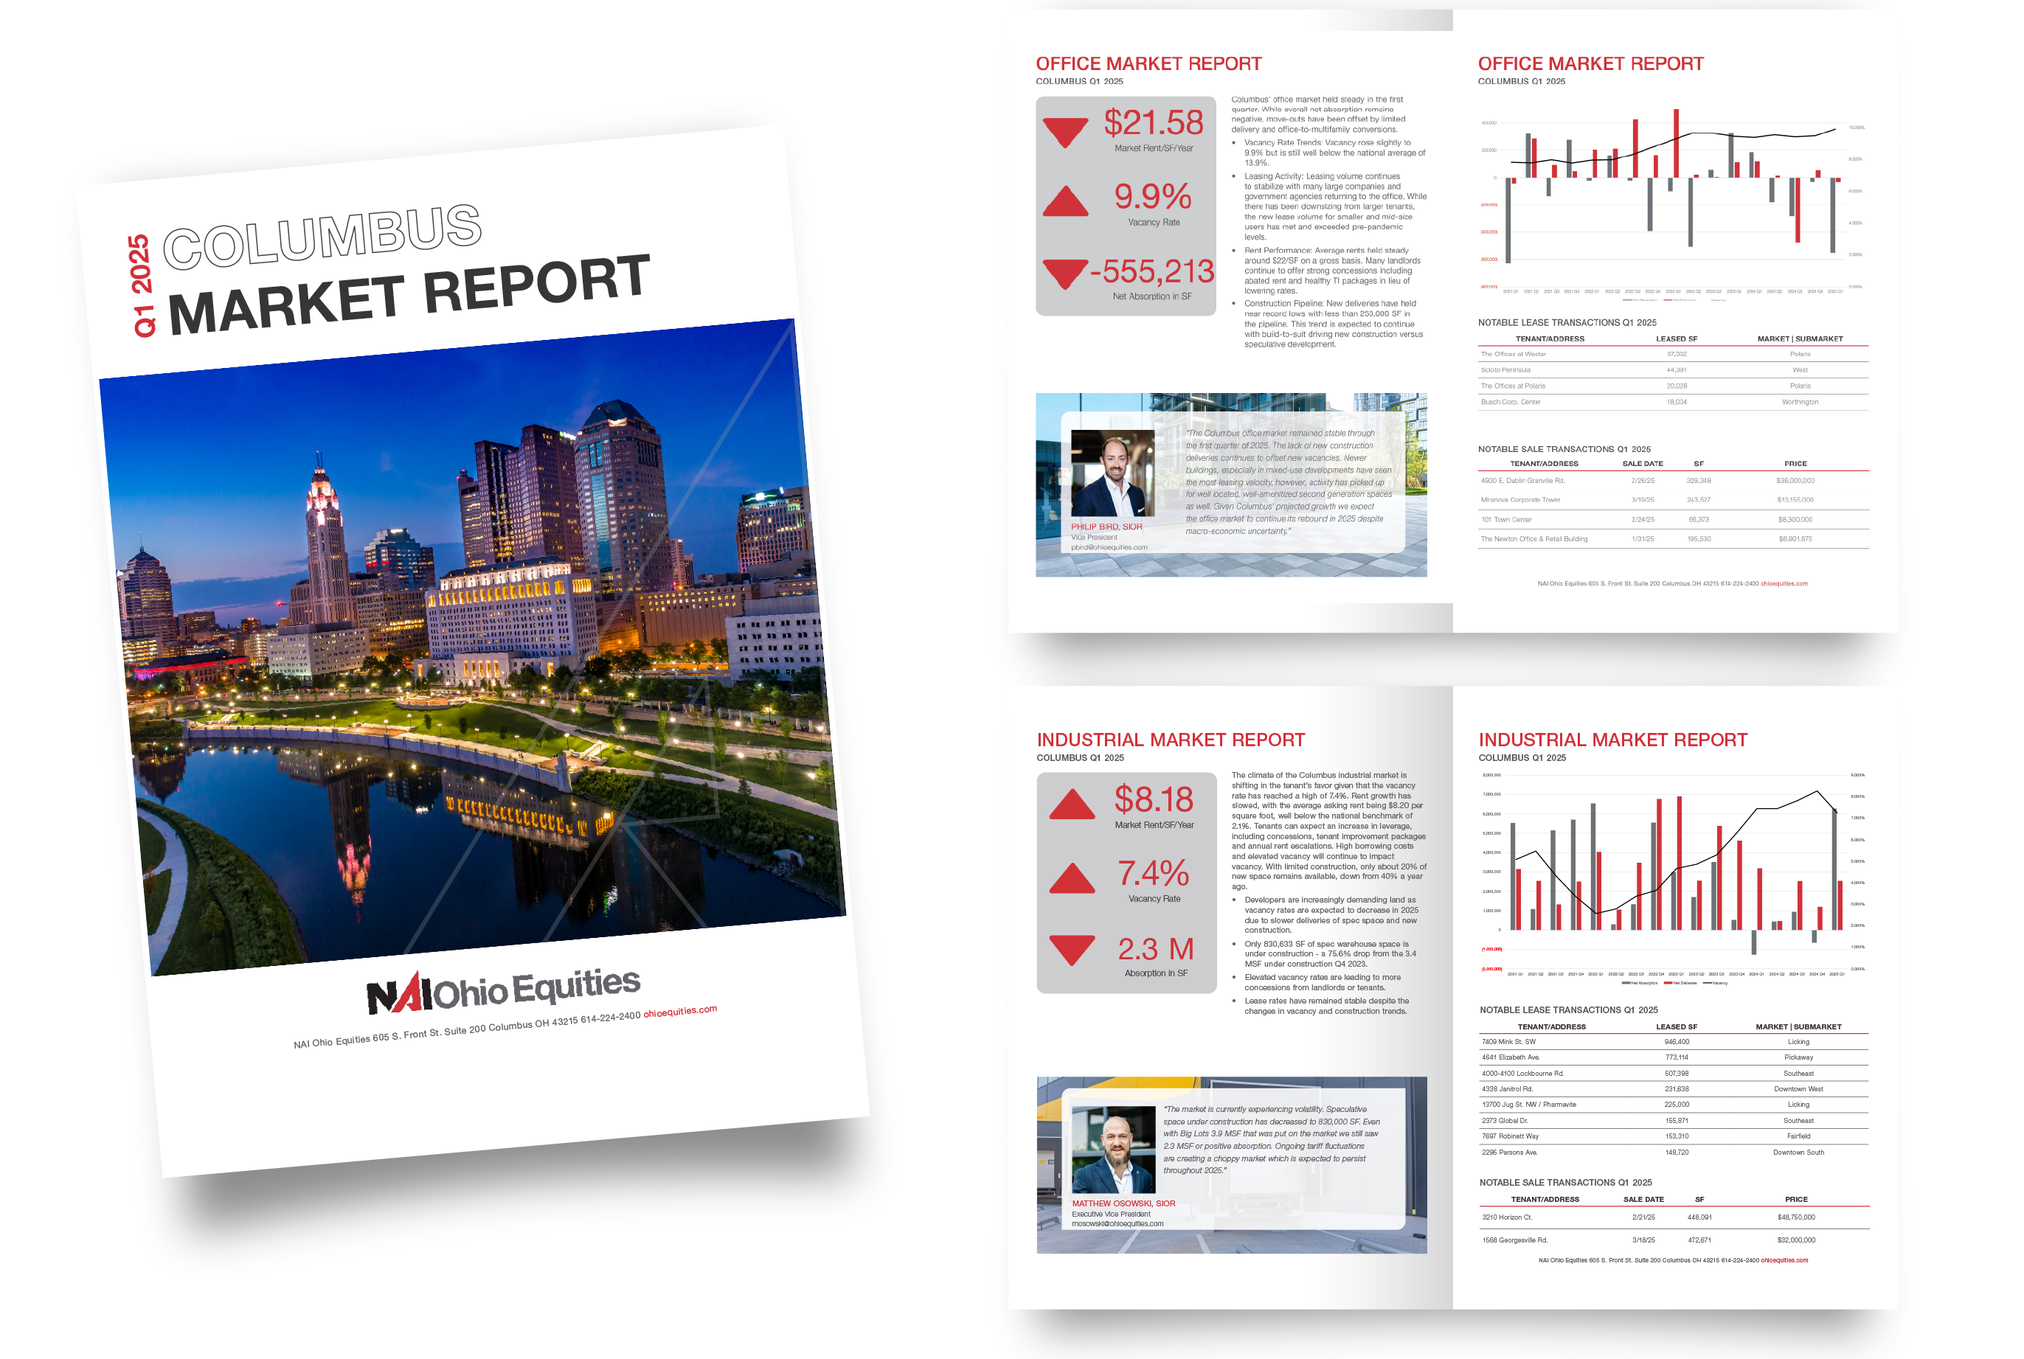
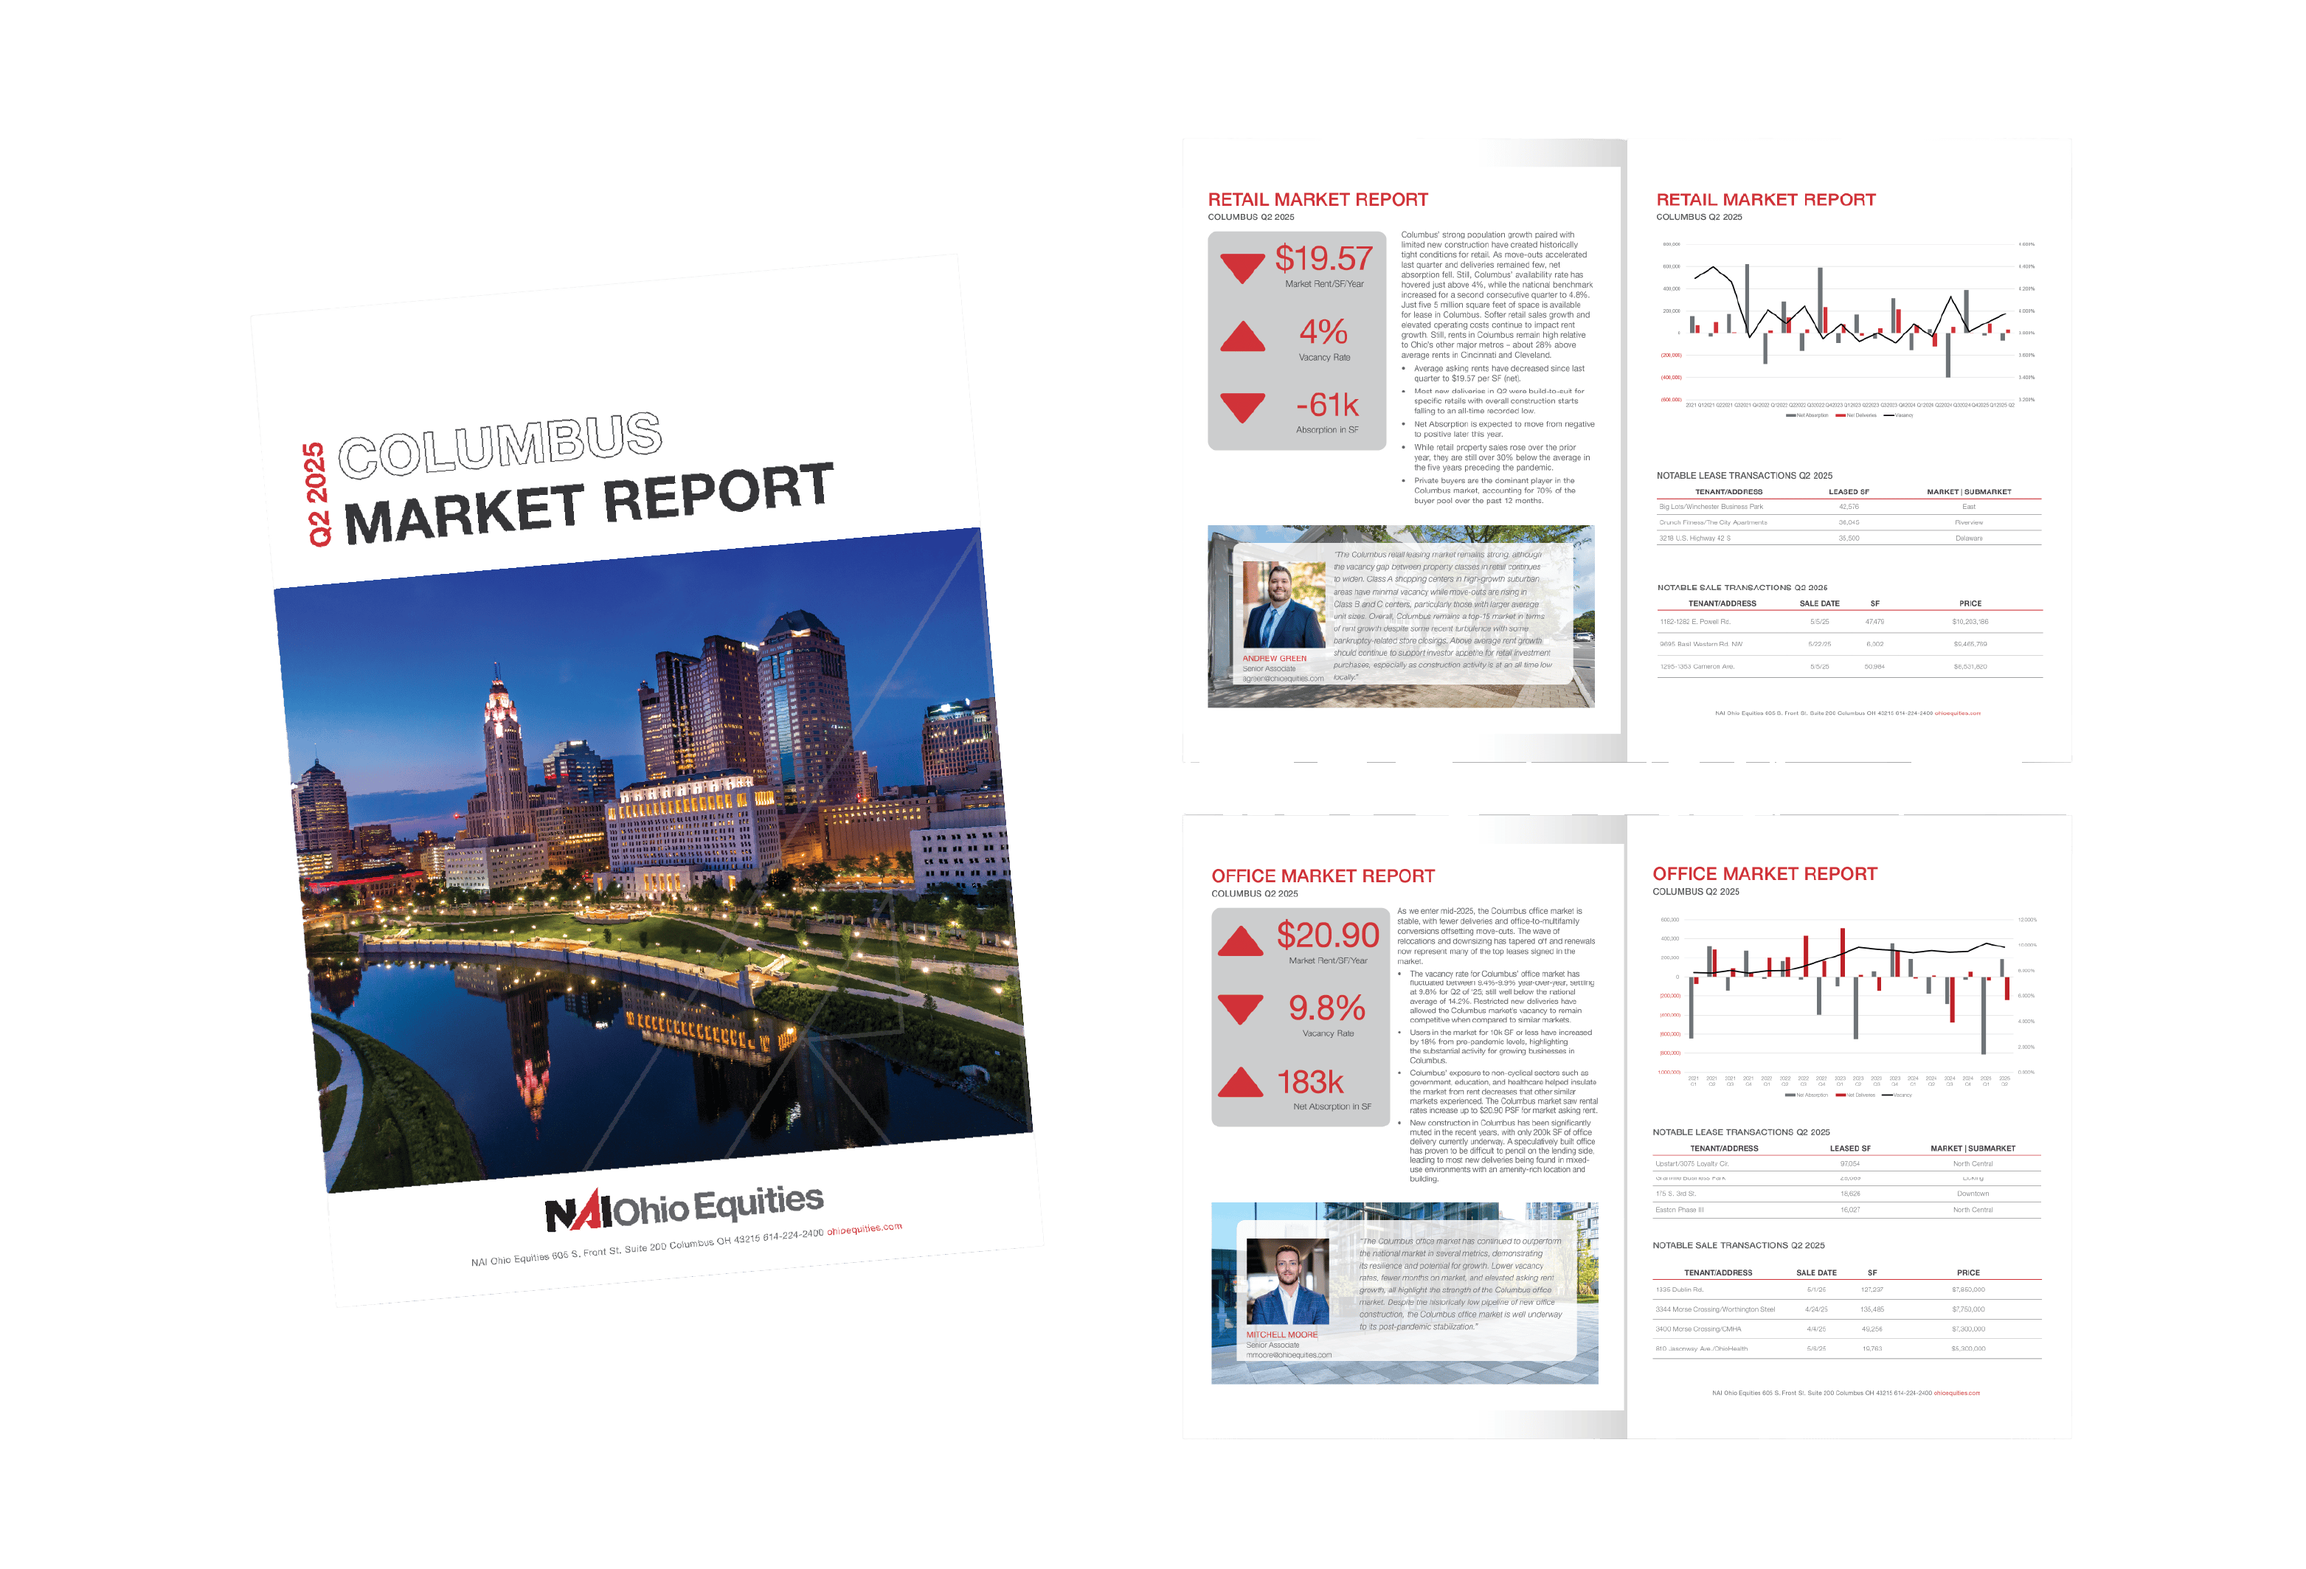
update 2025q2 market reports

diff --git a/index.html b/index.html
@@ -185,20 +185,20 @@
         </div>
       </div>
       <div class="container-fluid" id="market-reports" style="position: relative; height: fit-content;">
-        <div class="market-reports-topright" style="display:flex; flex-direction:column; justify-content: center; align-items: center; height: 100%; position: absolute; top: 0; right: 0; width: 55%;"><a href="https://indd.adobe.com/view/0bb33e31-b978-4299-8cd9-34a92f1a31b7" target="_blank" rel="noopener noreferrer"><img class="img-responsive" src="img/marketing/market-reports.png" alt="Market Reports"></a></div>
+        <div class="market-reports-topright" style="display:flex; flex-direction:column; justify-content: center; align-items: center; height: 100%; position: absolute; top: 0; right: 0; width: 55%;"><a href="https://indd.adobe.com/view/0f8d58d0-4bd5-49f8-aa03-96a532d0275f" target="_blank" rel="noopener noreferrer"><img class="img-responsive" src="img/marketing/market-reports.png" alt="Market Reports"></a></div>
         <div class="market-reports-bottomleft">
           <h1>Market Reports</h1>
-          <h4>Industrial Overview</h4>
-          <p>The climate of the Columbus industrial market is shifting in the tenant’s favor given that the vacancy rate has reached a high of 7.4%. Rent growth has slowed, with the average asking rent being $8.20 per square foot, well below the national benchmark of 2.1%. Tenants can expect an increase in leverage, including concessions, tenant improvement packages and annual rent escalations. High borrowing costs and elevated vacancy will continue to impact vacancy. With limited construction, only about 20% of new space remains available, down from 40% a year ago.</p>
-          <p>Developers are increasingly demanding land as vacancy rates are expected to decrease in 2025 due to slower deliveries of spec space and new construction.</p>
-          <p>Only 830,633 SF of spec warehouse space is under construction - a 75.6% drop from the 3.4 MSF under construction Q4 2023. </p>
-          <p>Elevated vacancy rates are leading to more concessions from landlords or tenants.</p>
-          <p>Lease rates have remained stable despite the changes in vacancy and construction trends.</p>
+          <h4>Retail Overview</h4>
+          <p>Columbus’ strong population growth paired with limited new construction have created historically tight conditions for retail. As move-outs accelerated last quarter and deliveries remained few, net absorption fell. Still, Columbus’ availability rate has hovered just above 4%, while the national benchmark increased for a second consecutive quarter to 4.8%. Just five 5 million square feet of space is available for lease in Columbus. Softer retail sales growth and elevated operating costs continue to impact rent growth. Still, rents in Columbus remain high relative to Ohio’s other major metros – about 28% above average rents in Cincinnati and Cleveland.</p>
+          <p>Most new deliveries in Q2 were build-to-suit for specific retails with overall construction starts falling to an all-time recorded low.</p>
+          <p>Net Absorption is expected to move from negative to positive later this year.</p>
+          <p>While retail property sales rose over the prior year, they are still over 30% below the average in the five years preceding the pandemic.</p>
+          <p>Private buyers are the dominant player in the Columbus market, accounting for 70%</p>
           <p class="red">-------------------------</p>
-          <p><em>“The market is currently experiencing volatility. Speculative space under construction has decreased to 830,000 SF. Even with Big Lots 3.9 MSF that was put on the market we still saw 2.3 MSF or positive absorption. Ongoing tariff fluctuations are creating a choppy market which is expected to persist throughout 2025."<br><strong>- Matt Osowski</strong>, Executive Vice President</em></p>
+          <p><em>“The Columbus retail leasing market remains strong, although the vacancy gap between property classes in retail continues to widen. Class A shopping centers in high-growth suburban areas have minimal vacancy while move-outs are rising in Class B and C centers, particularly those with larger average unit sizes. Overall, Columbus remains a top-15 market in terms of rent growth despite some recent turbulence with some bankruptcy-related store closings. Above average rent growth should continue to support investor appetite for retail investment purchases, especially as construction activity is at an all time low locally."<br><strong>- Andrew Green</strong>, Senior Associate</em></p>
           <div class="ul-center">
             <ul>
-              <li><a href="https://indd.adobe.com/view/0bb33e31-b978-4299-8cd9-34a92f1a31b7" target="_blank" rel="noopener noreferrer">1st Quarter 2025</a></li>
+              <li><a href="https://indd.adobe.com/view/0f8d58d0-4bd5-49f8-aa03-96a532d0275f" target="_blank" rel="noopener noreferrer">2nd Quarter 2025</a></li>
               <li><a href="https://www.naiglobal.com/category/market-research/" target="_blank" rel="noopener noreferrer">NAI Global Market Reports</a></li>
             </ul>
           </div>
